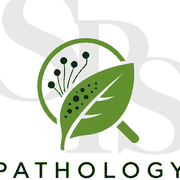
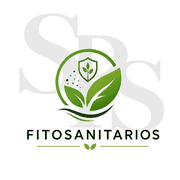
ok

diff --git a/tools/build_icons.py b/tools/build_icons.py
@@ -1,33 +1,51 @@
 #!/usr/bin/env python3
 # -*- coding: utf-8 -*-
 """
-build_icons.py - v2.0 - 30-07-2026
-Juego de iconos de aplicacion "Pathology Forecast" derivado de
-Pathology_Forecast_Logo_2.png (marca combinada: simbolo lupa-hoja sobre
-monograma SPS en filigrana).
+build_icons.py - v3.1 - 02-08-2026
+Juego de iconos de aplicacion derivado de LOGO_PATOLOGIA.png
+(marca combinada: circulo hoja-escudo-esporas sobre monograma SPS en
+filigrana, con rotulo FITOSANITARIOS al pie).
 (c) 2026 Winston Colvin - South Pacific Seeds Chile
+
+CAMBIOS v3.1 respecto de v3.0:
+  - SIN RECORTE. Se usa el lienzo completo de 512x512: simbolo, filigrana SPS
+    y rotulo FITOSANITARIOS. La v3.0 recortaba al simbolo y dejaba el rotulo
+    fuera; criterio descartado por decision de marca.
+  - SIN ESQUINAS REDONDEADAS. Los cuatro archivos son cuadrados opacos sobre
+    blanco. iOS y Android aplican por su cuenta la mascara de la plataforma;
+    aplicarla ademas en el archivo producia un doble redondeo y recortaba
+    contenido.
+  - El lienzo de origen ya cumple la zona segura para mascaras de Android:
+    el contenido ocupa 409 x 387 px sobre 512, es decir el 80 % del ancho y
+    el 75,6 % del alto, centrado. Por eso conservar el lienzo intacto es la
+    opcion que mas contenido preserva bajo cualquier recorte del sistema.
+
+CAMBIOS v3.0 respecto de v2.0:
+  - Fuente nueva: LOGO_PATOLOGIA.png, 512x512 px, RGBA totalmente opaco.
+    La v2.0 trabajaba sobre un lienzo de ~1280 px; todas las constantes de
+    geometria se volvieron a medir y no son trasladables.
 """
 import os
 import numpy as np
 from PIL import Image, ImageDraw
 
-SRC = "/mnt/user-data/uploads/Pathology_Forecast_Logo_2.png"
-OUT = "/home/claude/out"
+SRC = os.path.join(os.path.dirname(__file__), "..", "assets",
+                   "logo-patologia-fuente.png")
+OUT = os.path.join(os.path.dirname(__file__), "..")
 os.makedirs(OUT, exist_ok=True)
 
 WHITE = (255, 255, 255)
 
-# --- Geometria medida sobre la fuente (no supuesta) -----------------------
-# Bandas de contenido por perfil de filas: 135-830 grafico,
-# 857-938 "PATHOLOGY", 949-1006 "FORECAST".
-BOX_WATERMARK = (221, 135, 1074, 831)   # monograma SPS en filigrana
-BOX_SYMBOL    = (417, 339,  848, 813)   # lupa + hoja + esporas
+# --- Geometria medida sobre la fuente (perfiles de fila y columna) --------
+# Simbolo (circulo + escudo + hoja + esporas): 157-345 x, 139-345 y.
+# Rotulo "FITOSANITARIOS": filas 369-396.  Filigrana SPS: desde la fila 39.
+# Simbolo 157-345 x, 139-345 y. Rotulo 369-396 y. Filigrana desde 39 y.
+# Contenido total: filas 39-425, columnas 56-464.
+BOX_CONTENT = (56, 39, 464, 425)
 
-# Encuadre elegido: cuadrado de 760 px centrado en (640, 520).
-FRAME_SIDE   = 760
-FRAME_CENTER = (640, 558)
-
-RADIUS = 0.225                          # squircle iOS / Android
+# El encuadre es el lienzo completo: no se recorta nada.
+FRAME_CENTER = (256, 256)
+FRAME_SIDE = 512
 
 
 def _frame(side, center):
@@ -36,13 +54,12 @@ def _frame(side, center):
     return (cx - h, cy - h, cx + h, cy + h)
 
 
-
 def clean(img):
     """Reduce el ruido de la fuente sin alterar el diseno:
-       - los pixeles casi-blancos pasan a blanco puro (59 % del lienzo);
+       - los pixeles casi-blancos pasan a blanco puro;
        - los grises de la filigrana se cuantizan a escalones de 8 niveles.
-       Baja el peso del PNG a cerca de un tercio y elimina el moteado
-       propio del archivo de origen. No toca los verdes ni el carbon."""
+       Baja el peso del PNG y elimina el moteado del archivo de origen.
+       No toca los verdes ni el carbon."""
     a = np.asarray(img.convert("RGB")).astype(int)
     r, g, b = a[:, :, 0], a[:, :, 1], a[:, :, 2]
     sat = np.abs(r - g) + np.abs(g - b) + np.abs(r - b)
@@ -56,34 +73,18 @@ def clean(img):
     return Image.fromarray(a.astype("uint8"), "RGB")
 
 
-def compose(size, rounded, simplified=False):
-    """rounded=False   -> cuadrado a sangre (requisito de apple-touch-icon)
-       rounded=True    -> squircle con esquinas transparentes
-       simplified=True -> solo el simbolo; reservado para 32 px"""
+def compose(size):
+    """Cuadrado opaco sobre blanco, sin recorte ni redondeo, en todos los
+       tamanos. El sobremuestreo x4 previo a la reduccion final evita el
+       aliaseado en los trazos finos del rotulo."""
     ss = 4
     S = size * ss
     src = Image.open(SRC).convert("RGB")
-
-    if simplified:
-        x0, y0, x1, y1 = BOX_SYMBOL
-        pad = int(0.13 * max(x1 - x0, y1 - y0))
-        s = max(x1 - x0, y1 - y0) + 2 * pad
-        cx, cy = (x0 + x1) // 2, (y0 + y1) // 2
-        crop = src.crop(_frame(s, (cx, cy)))
-    else:
-        crop = src.crop(_frame(FRAME_SIDE, FRAME_CENTER))
+    crop = src.crop(_frame(FRAME_SIDE, FRAME_CENTER))
 
     canvas = Image.new("RGB", (S, S), WHITE)
     canvas.paste(clean(crop).resize((S, S), Image.LANCZOS), (0, 0))
-    out = canvas.convert("RGBA")
-
-    if rounded:
-        m = Image.new("L", (S, S), 0)
-        ImageDraw.Draw(m).rounded_rectangle(
-            [0, 0, S - 1, S - 1], radius=int(RADIUS * S), fill=255)
-        out.putalpha(m)
-
-    return out.resize((size, size), Image.LANCZOS)
+    return canvas.resize((size, size), Image.LANCZOS).convert("RGBA")
 
 
 def save_png8(img, path, colors, flatten_to=None):
@@ -99,20 +100,21 @@ def save_png8(img, path, colors, flatten_to=None):
     return os.path.getsize(path)
 
 
-#          archivo                px  redondeo  colores  aplanar  simplificado
+#          archivo                px  colores
 TARGETS = [
-    ("apple-touch-icon.png", 180, False,  48, WHITE, False),
-    ("icon-192.png",         192, True,   48, None,  False),
-    ("icon-512.png",         512, True,   64, None,  False),
-    ("favicon-32.png",        32, True,    16, None,  True),
+    ("apple-touch-icon.png", 180,  64),
+    ("icon-192.png",         192,  64),
+    ("icon-512.png",         512,  96),
+    ("favicon-32.png",        32,  32),
 ]
 
 if __name__ == "__main__":
-    print(f"{'archivo':<22}{'px':>5}{'squircle':>10}{'simpl.':>8}{'bytes':>8}{'KiB':>7}")
+    print(f"encuadre: lienzo completo {FRAME_SIDE} px, sin recorte ni redondeo")
+    print(f"{'archivo':<22}{'px':>5}{'bytes':>9}{'KiB':>7}")
     tot = 0
-    for name, size, rnd, cols, flat, simp in TARGETS:
-        n = save_png8(compose(size, rnd, simp), os.path.join(OUT, name), cols, flat)
+    for name, size, cols in TARGETS:
+        # Todos se aplanan sobre blanco: sin canal alfa, sin esquinas cortadas.
+        n = save_png8(compose(size), os.path.join(OUT, name), cols, WHITE)
         tot += n
-        print(f"{name:<22}{size:>5}{('si' if rnd else 'no'):>10}"
-              f"{('si' if simp else 'no'):>8}{n:>8}{n/1024:>7.1f}")
-    print(f"{'TOTAL':<22}{'':>5}{'':>10}{'':>8}{tot:>8}{tot/1024:>7.1f}")
+        print(f"{name:<22}{size:>5}{n:>9}{n/1024:>7.1f}")
+    print(f"{'TOTAL':<22}{'':>5}{tot:>9}{tot/1024:>7.1f}")
